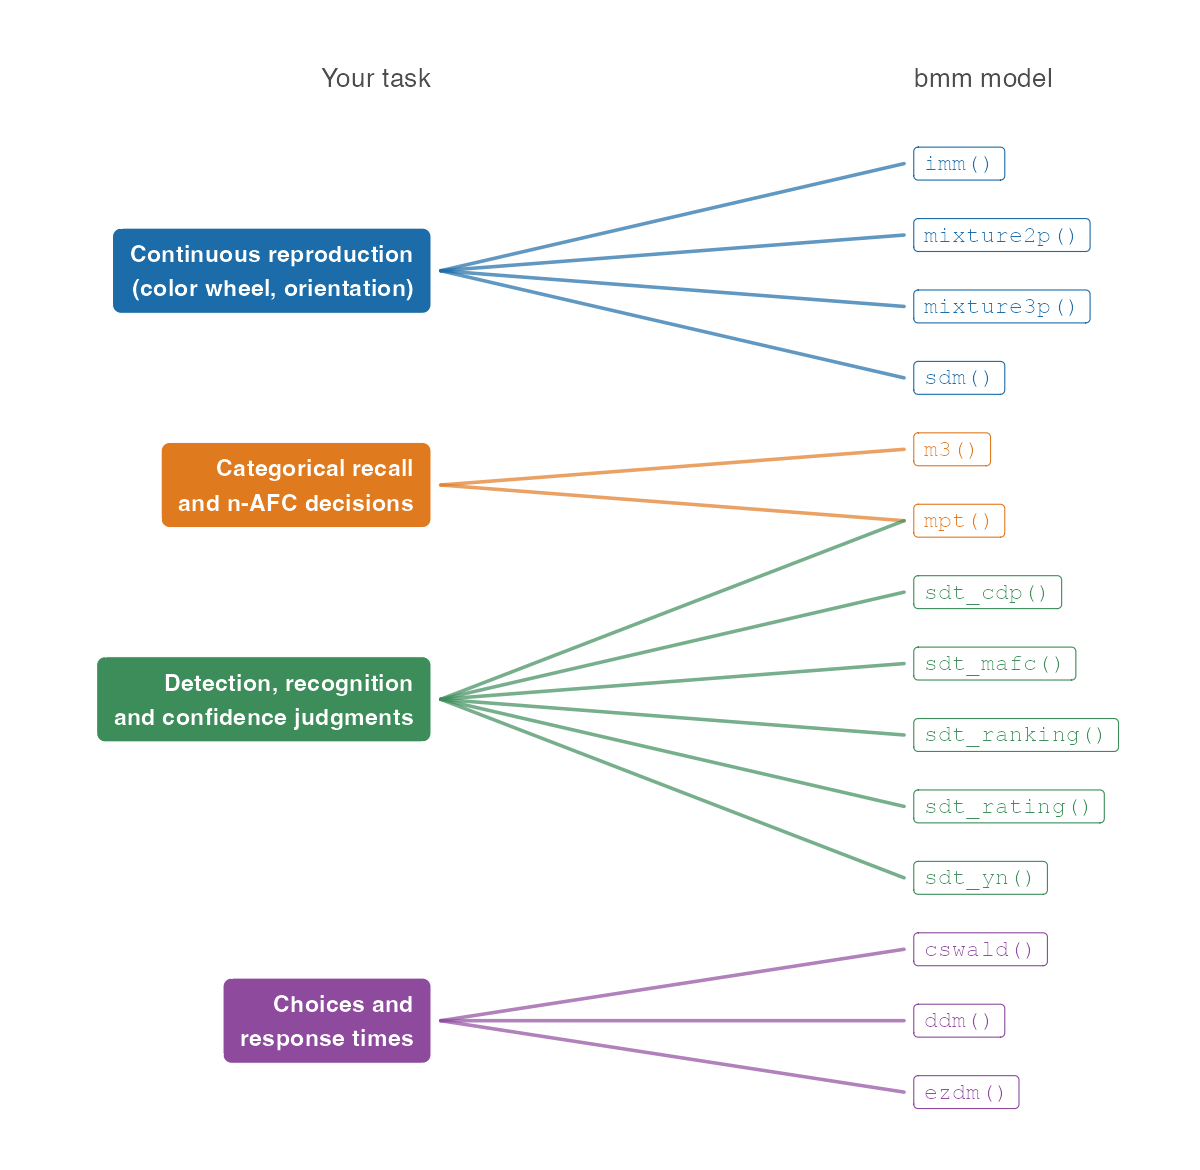
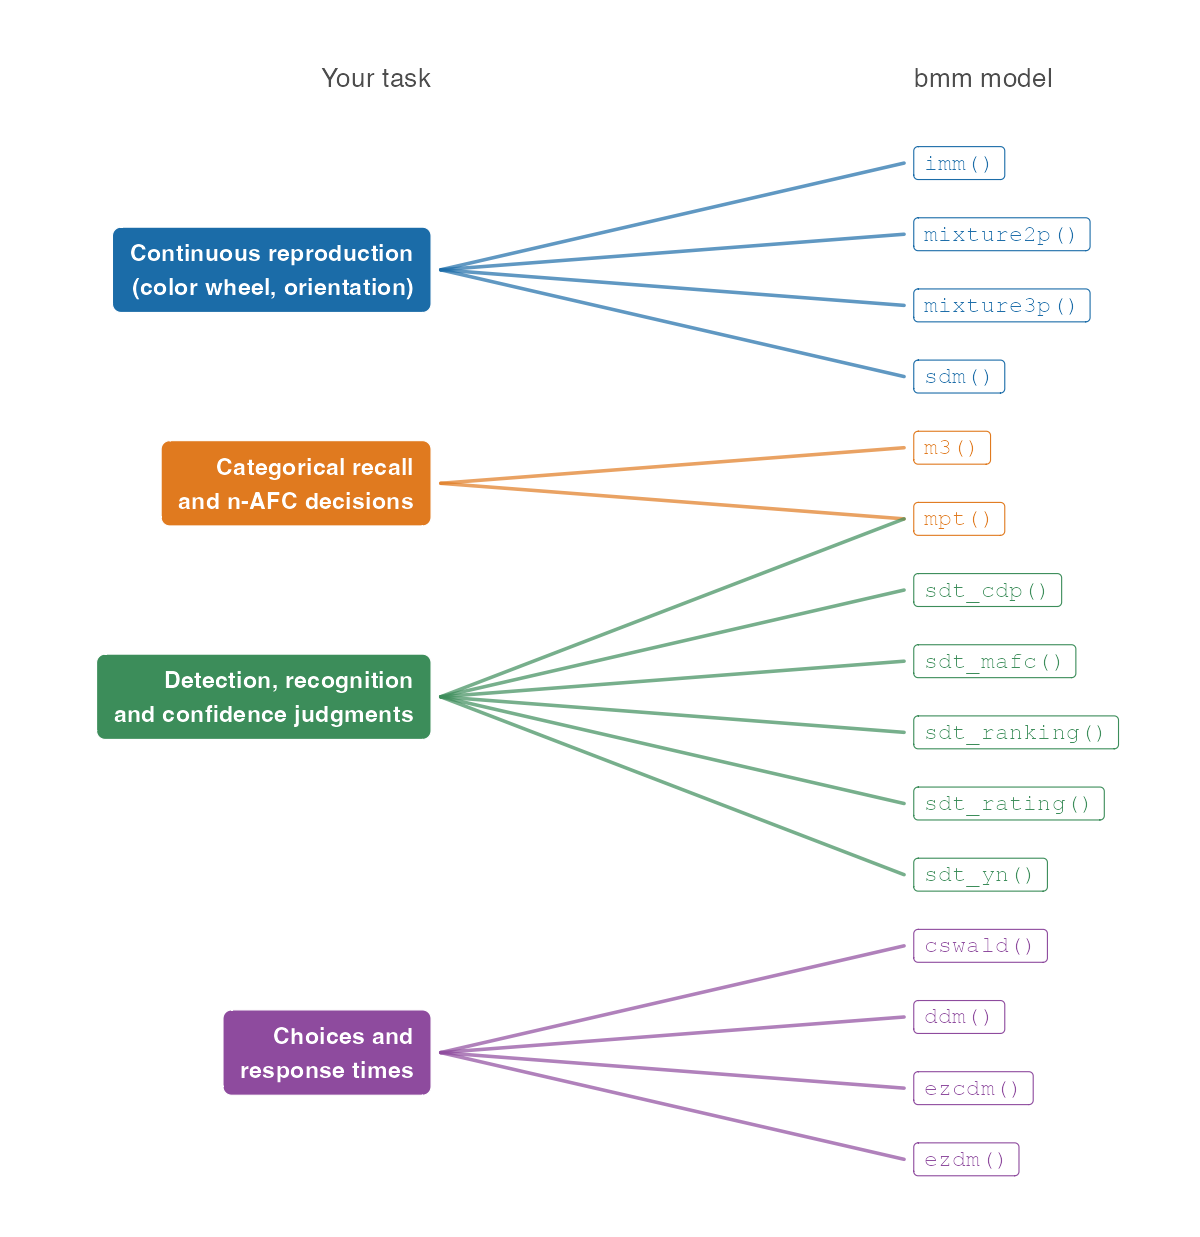
fix(ezcdm): take domain and task from the model vocabulary
ezcdm() declared domain "Decision Making / Response times" and task
"Continuous reproduction tasks with response times", which the
vocabulary contract test in test-helpers-model.R rejects for both
versions. It now uses domain "Decision making" and task "Choices and
response times", as cswald(), ddm() and ezdm() do, so bmm_models() and
the README list it with the other response-time models.

The README task map is regenerated from model_registry() and README.md
re-rendered. The dependency badge is left at develop's count; the
render's count reflects the current CRAN index, not this change.

diff --git a/README.md b/README.md
@@ -95,7 +95,8 @@ each model offers.
 
 **Choices and response times.** Participants choose between two options,
 or report a feature on a circle, such as an orientation or a color, and
-the response time is recorded, either on every trial or as means and variances per condition. See the
+the response time is recorded, either on every trial or as means and
+variances per condition. See the
 [DDM](https://venpopov.com/bmm/articles/bmm_ddm.html), [censored shifted
 Wald](https://venpopov.com/bmm/articles/bmm_cswald.html),
 [EZ-diffusion](https://venpopov.com/bmm/articles/bmm_ezdm.html), [EZ
